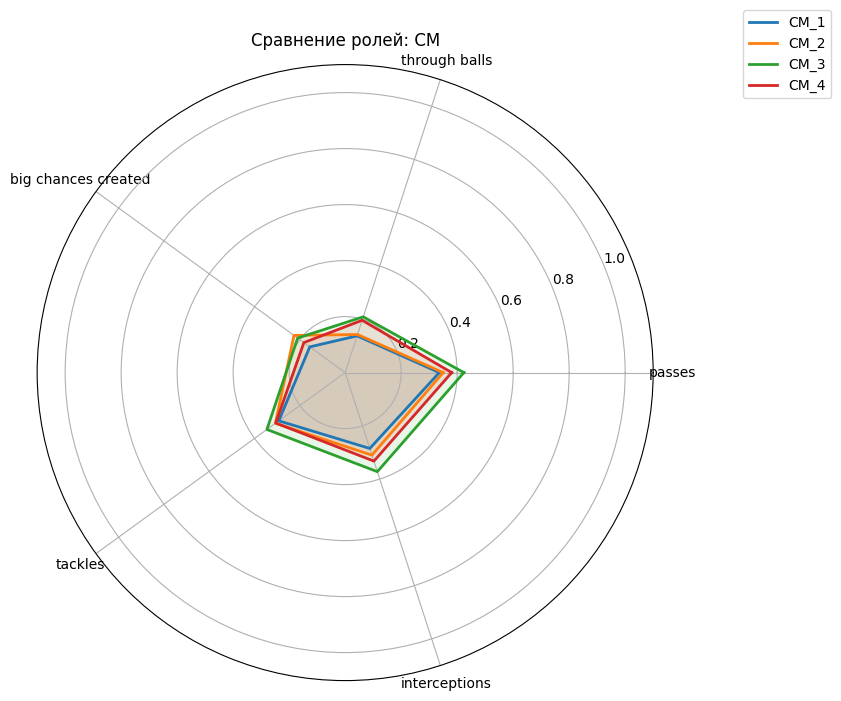
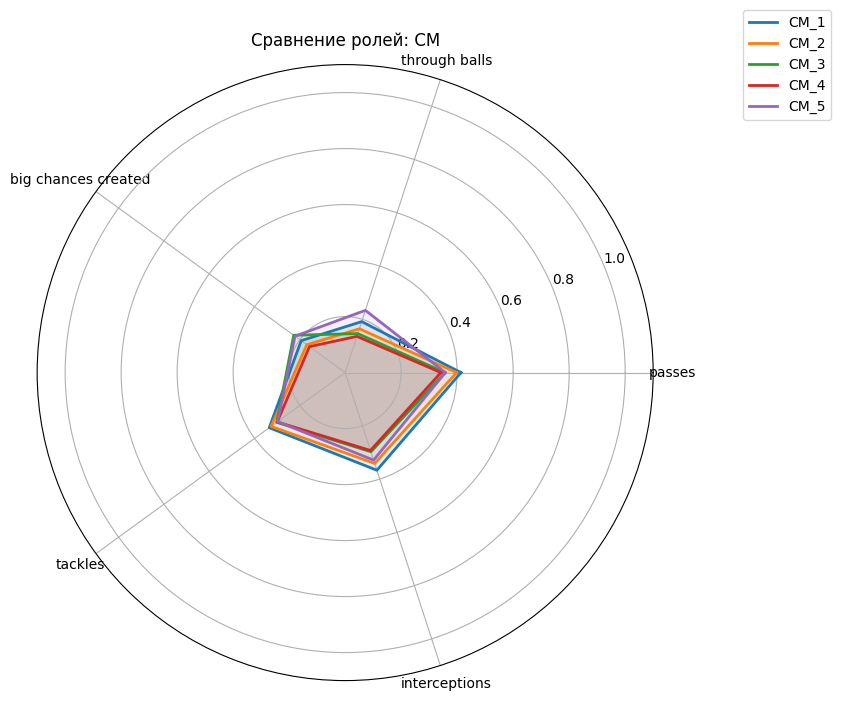
Same Clusters As In Source

Changed region(s): [[0.3092, 0.4494, 0.5565, 0.689], [0.8966, 0.1198, 0.9893, 0.1797]]

diff --git a/app/ai/clusterer.py b/app/ai/clusterer.py
@@ -59,9 +59,9 @@ def compute_clusters():
         df_working = df_working.rename(columns={'name': 'player_name'})
 
     zones_config = {
-        'GK': {'n': 2, 'prefix': 'GK_'}, 'CB': {'n': 3, 'prefix': 'CB_'}, 
-        'FB': {'n': 3, 'prefix': 'FB_'}, 'CM': {'n': 4, 'prefix': 'CM_'},
-        'WG': {'n': 3, 'prefix': 'WG_'}, 'ST': {'n': 3, 'prefix': 'ST_'}
+        'GK': {'n': 3, 'prefix': 'GK_'}, 'CB': {'n': 3, 'prefix': 'CB_'}, 
+        'FB': {'n': 3, 'prefix': 'FB_'}, 'CM': {'n': 5, 'prefix': 'CM_'},
+        'WG': {'n': 3, 'prefix': 'WG_'}, 'ST': {'n': 4, 'prefix': 'ST_'}
     }
 
     player_zones = {}
